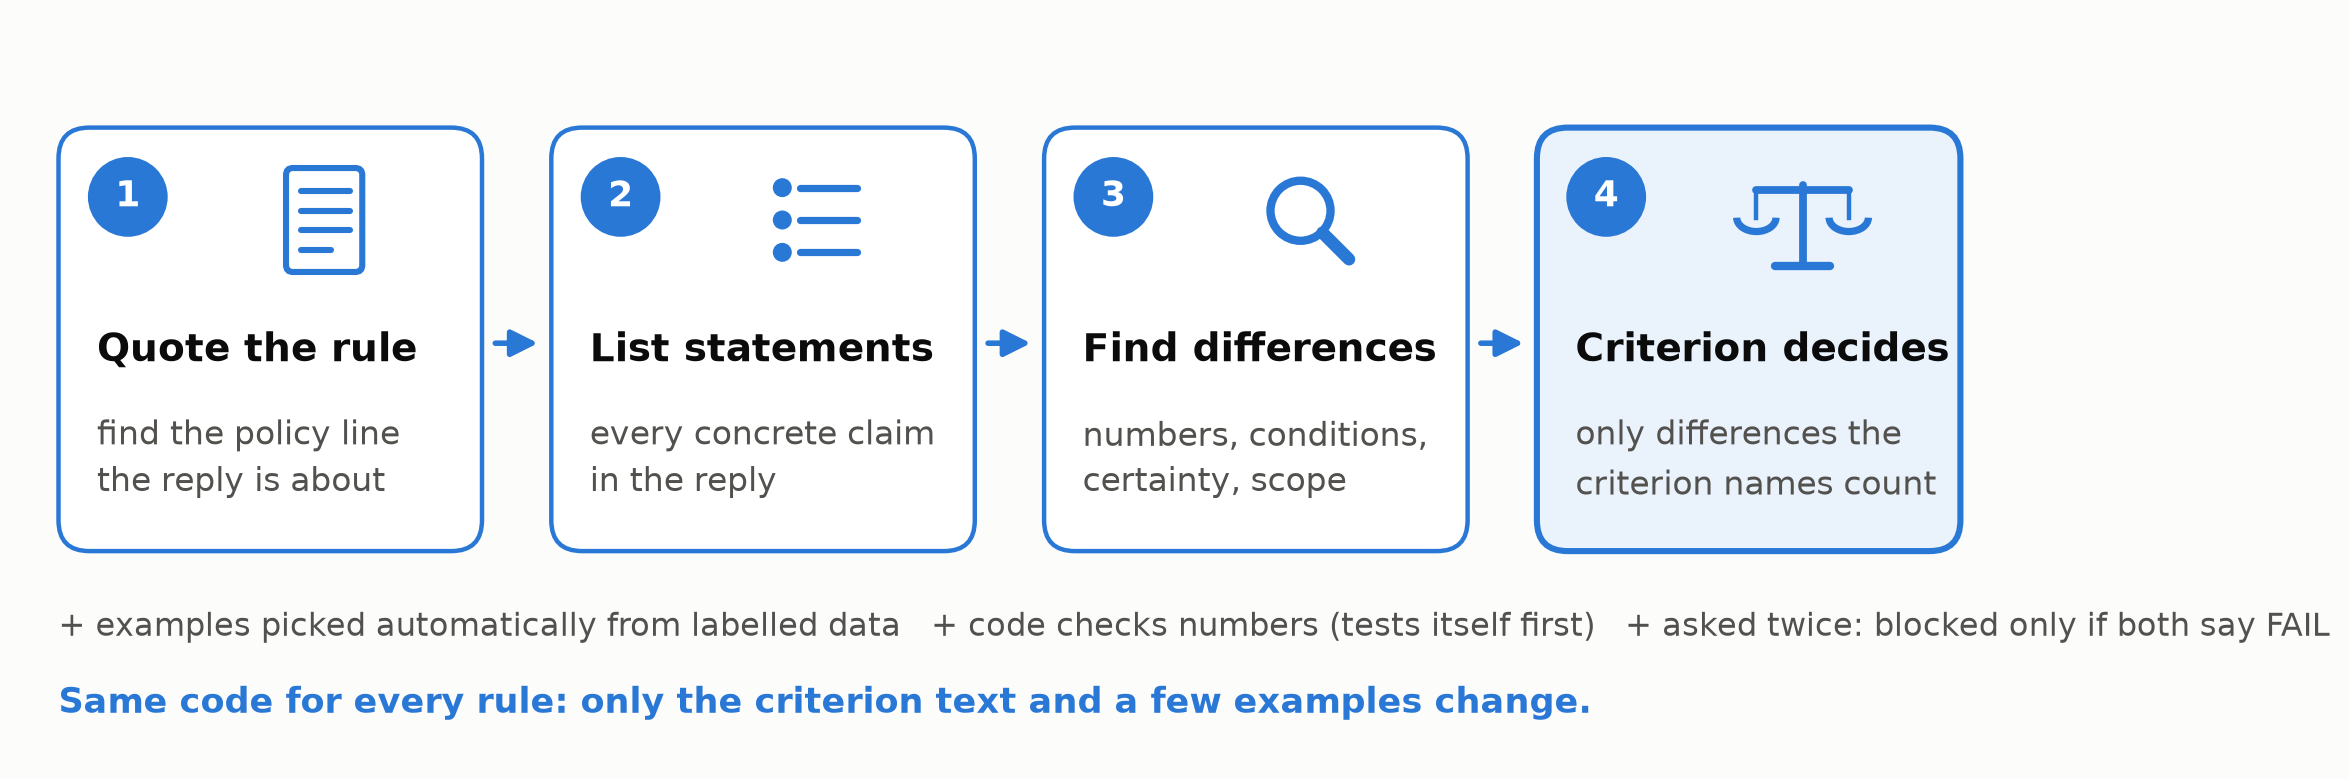
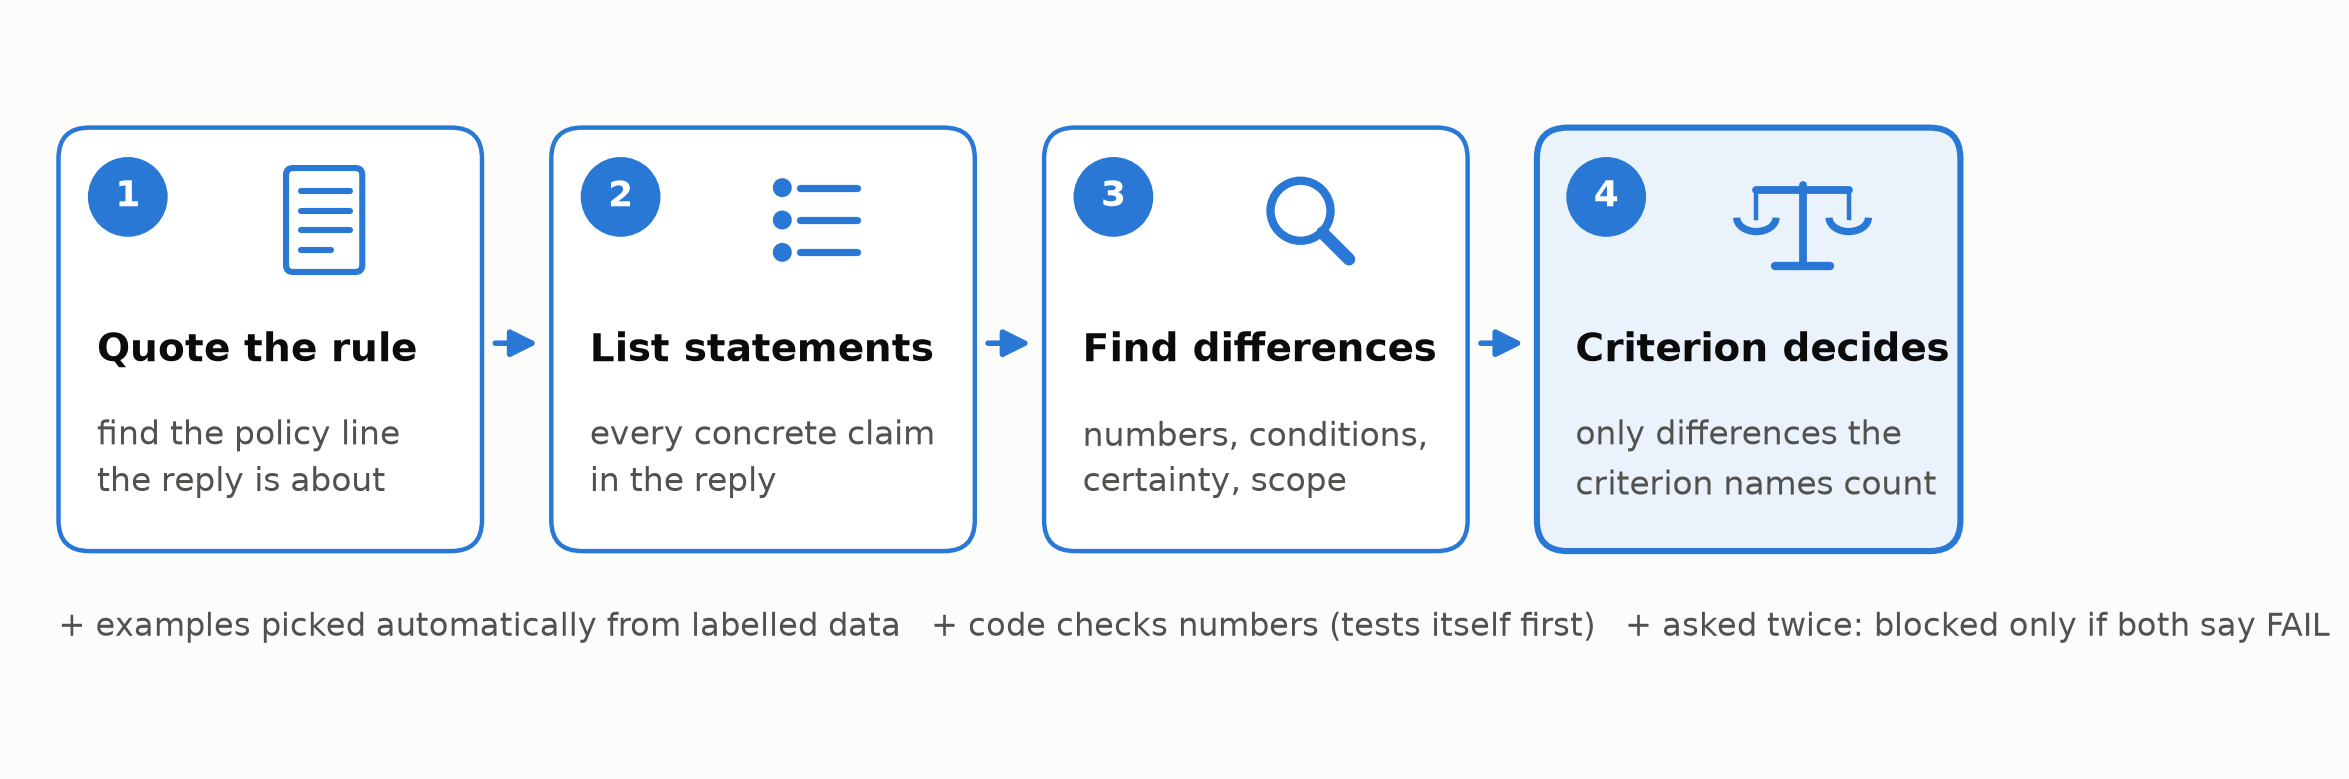
Slide images: simpler legends, criterion 1 at 0.90

Changed region(s): [[0.0311, 0.8626, 0.6837, 0.9243]]

diff --git a/Project_3/slides_assets/make_plots.py b/Project_3/slides_assets/make_plots.py
@@ -58,7 +58,7 @@ ax.yaxis.grid(True, color=GRID, zorder=0)
 ax.set_ylabel("combined score (catch × keep balance)")
 clean(ax)
 ax.legend(handles=[plt.Rectangle((0, 0), 1, 1, color=BASE), plt.Rectangle((0, 0), 1, 1, color=OURS)],
-          labels=["SIXT starting judge", "Our recipe (same code for both)"], frameon=False, loc="upper center",
+          labels=["SIXT starting judge", "Our judge"], frameon=False, loc="upper center",
           ncol=2, bbox_to_anchor=(0.5, 1.12), fontsize=13)
 save(fig, "1_headline.png")
 
@@ -94,7 +94,7 @@ ax.xaxis.grid(True, color=GRID, zorder=0)
 clean(ax)
 ax.legend(handles=[plt.Line2D([], [], marker="o", ls="", color=BASE, ms=10),
                    plt.Line2D([], [], marker="o", ls="", color=OURS, ms=10)],
-          labels=["SIXT starting judge", "Our recipe"], frameon=False, loc="upper center", ncol=2,
+          labels=["SIXT starting judge", "Our judge"], frameon=False, loc="upper center", ncol=2,
           bbox_to_anchor=(0.45, 1.09), fontsize=12)
 save(fig, "2_per_edit_type.png")
 
@@ -114,7 +114,7 @@ ax.xaxis.grid(True, color=GRID, zorder=0)
 ax.set_xlabel("combined score")
 clean(ax)
 ax.legend(handles=[plt.Rectangle((0, 0), 1, 1, color=BASE), plt.Rectangle((0, 0), 1, 1, color=OURS)],
-          labels=["SIXT starting judge", "Our recipe (code unchanged)"], frameon=False, loc="upper center", ncol=2,
+          labels=["SIXT starting judge", "Our judge"], frameon=False, loc="upper center", ncol=2,
           bbox_to_anchor=(0.4, 1.09), fontsize=12)
 save(fig, "3_generalisation.png")
 

diff --git a/Project_3/slides_assets/make_visuals.py b/Project_3/slides_assets/make_visuals.py
@@ -173,6 +173,4 @@ for i, (n, title, sub, icon) in enumerate(steps):
 ax.text(0.25, 0.8, "+ examples picked automatically from labelled data   "
         "+ code checks numbers (tests itself first)   + asked twice: blocked only if both say FAIL",
         fontsize=11.5, color=INK2)
-ax.text(0.25, 0.3, "Same code for every rule: only the criterion text and a few examples change.",
-        fontsize=12.5, color=OURS, fontweight="bold")
 save(fig, "0_recipe_flow.png")
